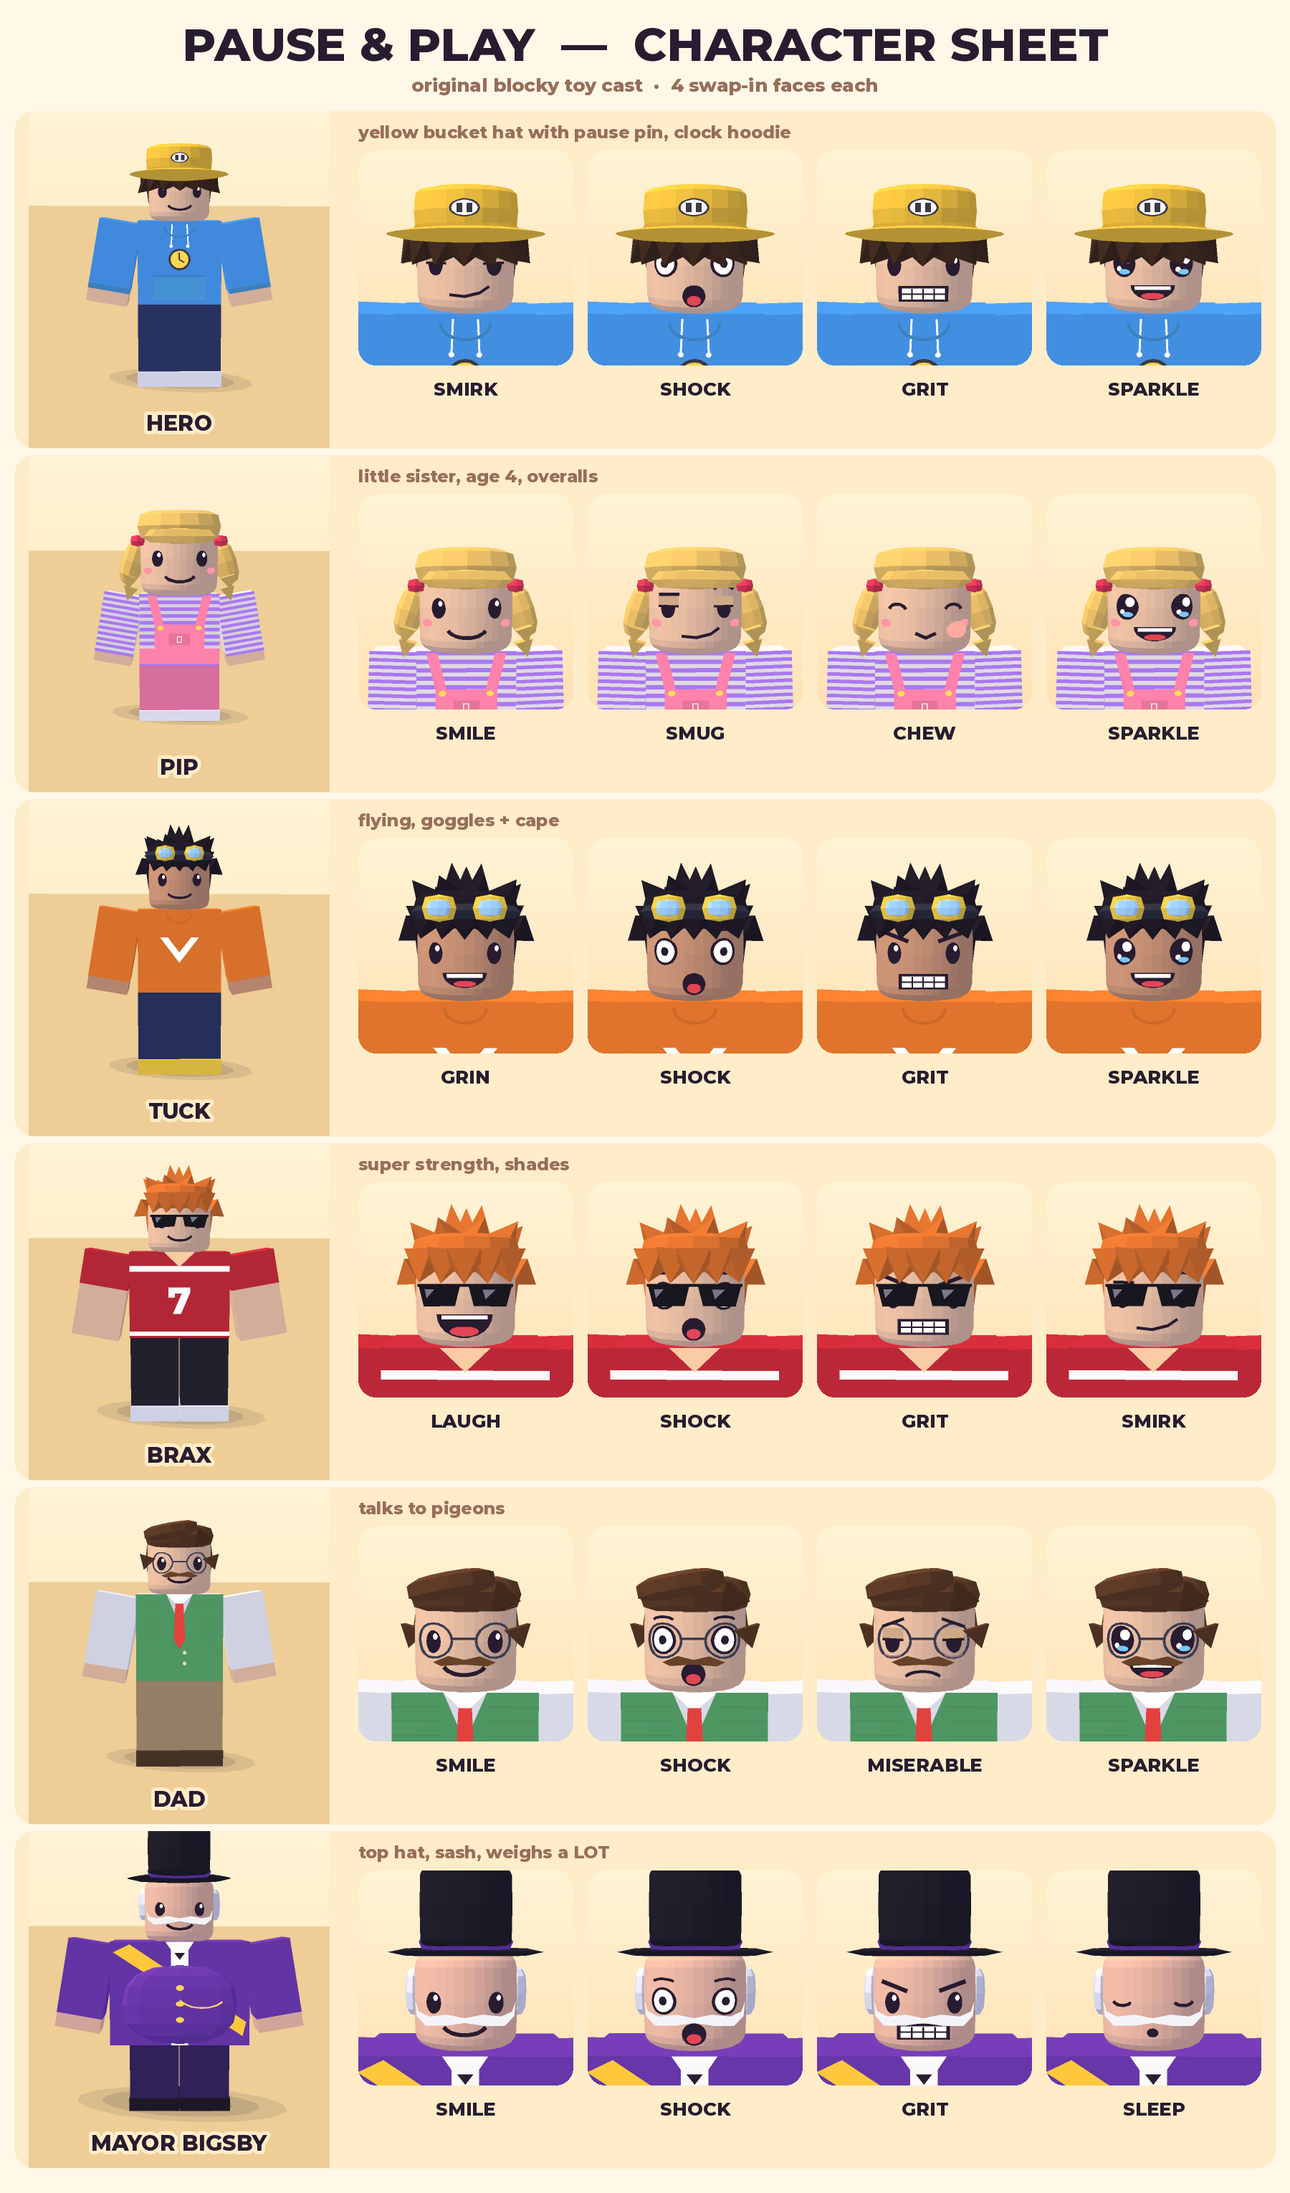
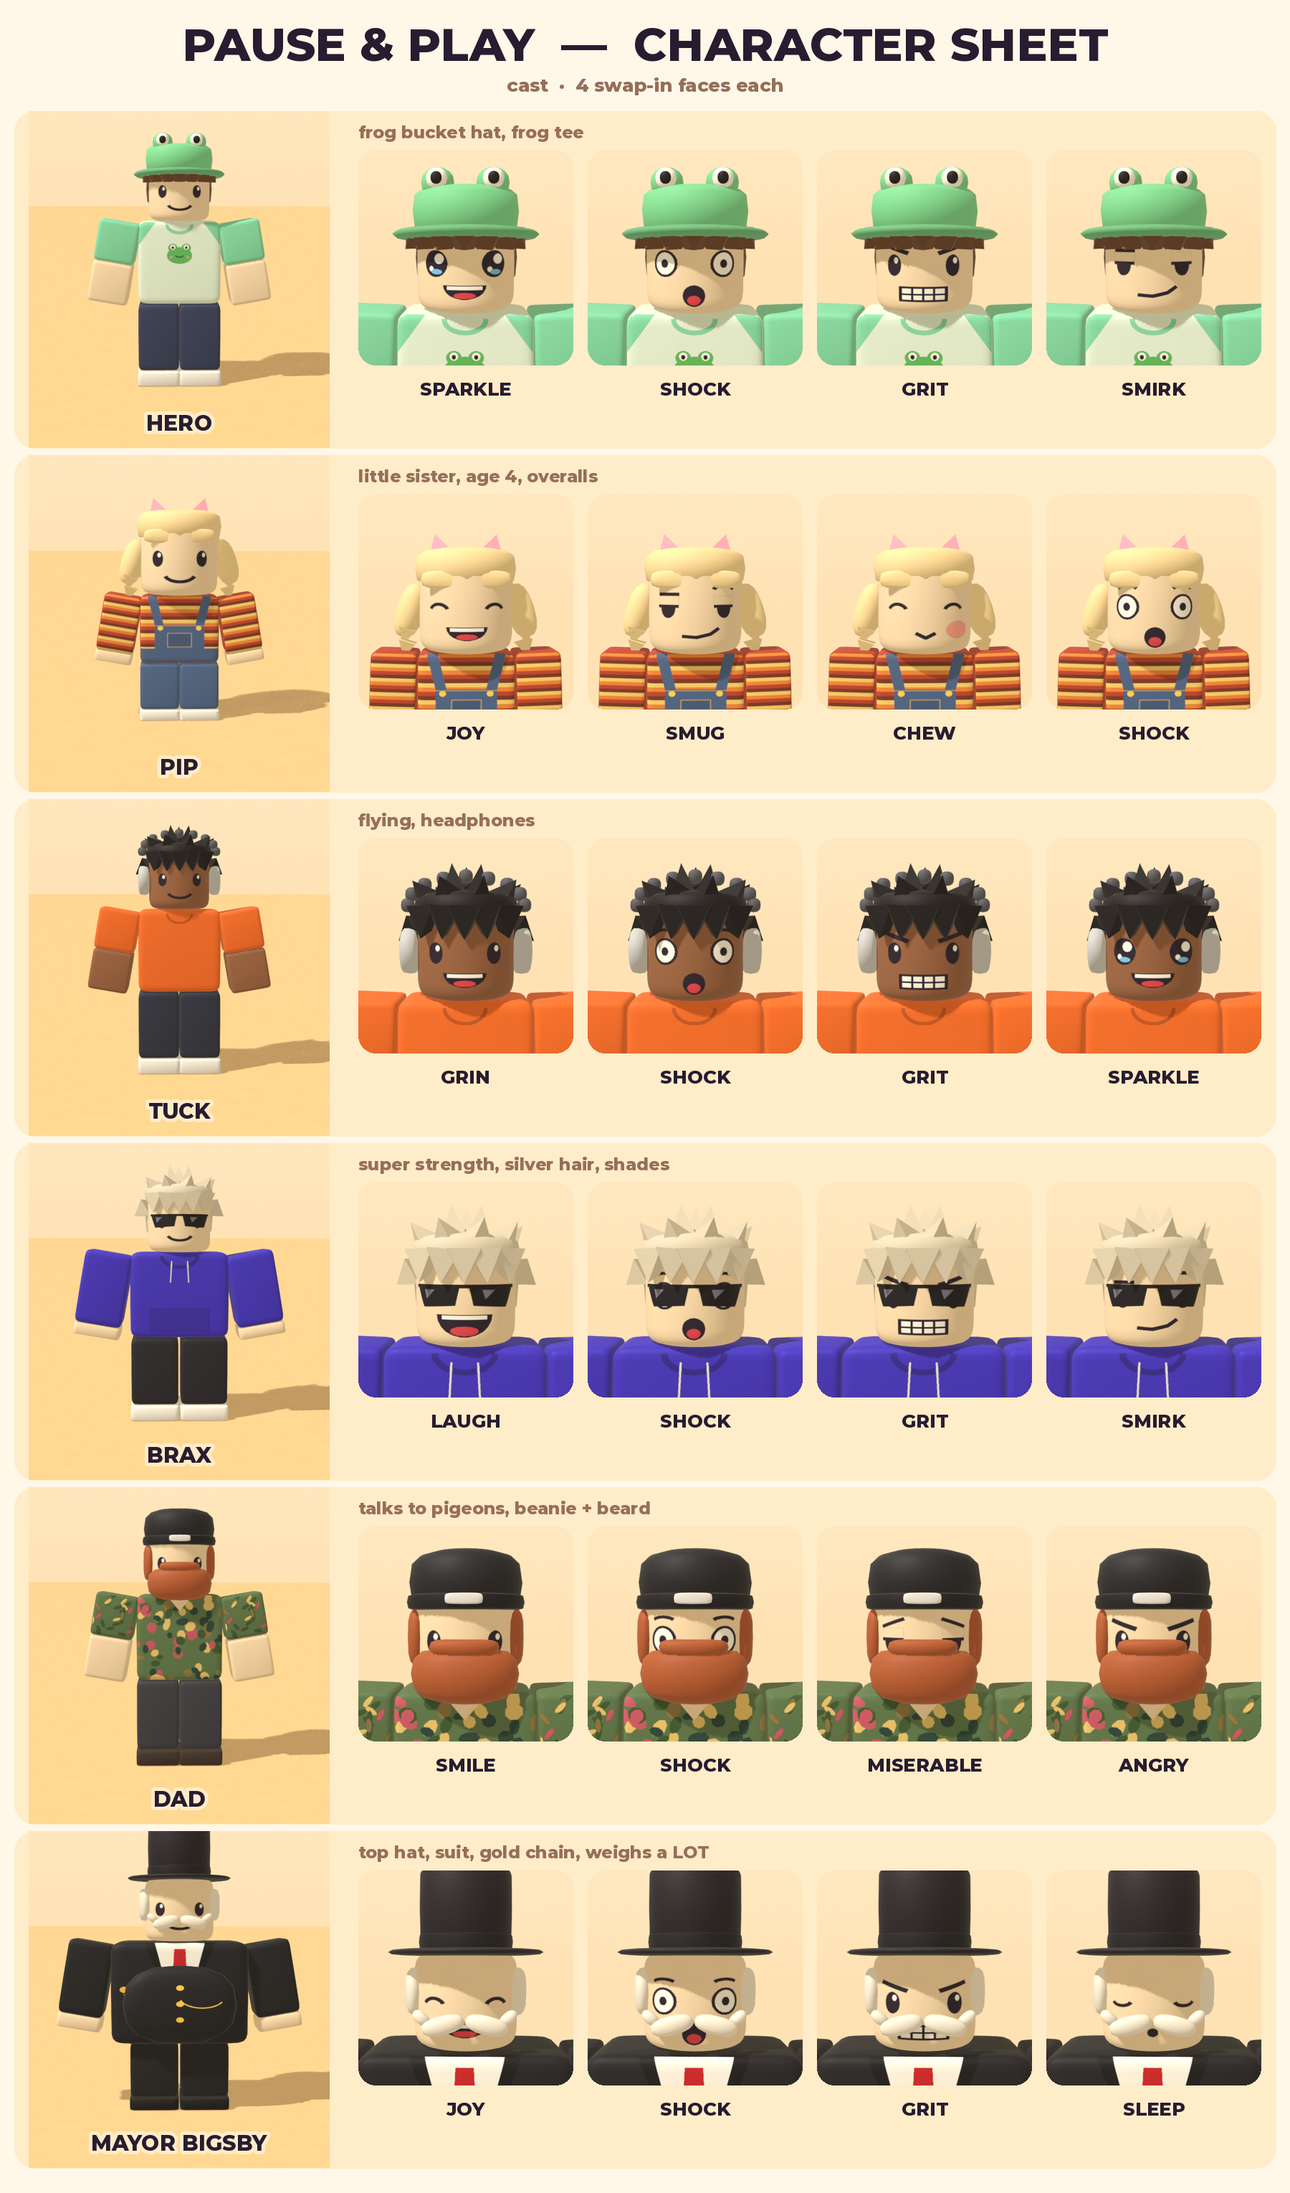
Restyle cast after the reference characters; render sheet in Blender
Frog bucket hat hero, pigtailed Pip in striped shirt and overalls,
Tuck with headphones, silver-haired Brax with shades, bearded Dad in a
beanie, Mayor Bigsby in top hat and suit. sheet_bl.py renders the
character sheet with the Blender backend.

Claude-Session: https://claude.ai/code/session_017PMdT4qytF3q9ripWgwiNd

diff --git a/pause_and_play/cast.py b/pause_and_play/cast.py
@@ -32,6 +32,7 @@ EXPR = {
     "chew0": ("happy", "happy", None, "chew0"),
     "chew1": ("happy", "happy", None, "chew1"),
     "worried": ("dot", "dot", "sad", "wobble"),
+    "joy": ("happy", "happy", None, "grin"),
     "fade": ("dot", "dot", "sad", "flat"),
 }
 
@@ -143,9 +144,9 @@ def face_decal(expr, spec, extra=None):
             D.line([(-0.82, 0.2), (0.82, 0.2)], (24, 22, 30), 0.07)
             D.poly([(-0.6, 0.14), (-0.42, 0.14), (-0.56, -0.02)], (120, 120, 140))
             D.poly([(0.24, 0.14), (0.42, 0.14), (0.28, -0.02)], (120, 120, 140))
-        if spec.get("stache"):
+        if spec.get("stache") and not spec.get("stache_big"):
             c = spec["stache"]
-            if spec.get("stache_big"):
+            if False:
                 D.poly([(0, -0.26), (-0.22, -0.2), (-0.5, -0.26), (-0.74, -0.2), (-0.86, -0.04), (-0.8, -0.3),
                         (-0.56, -0.44), (-0.24, -0.4), (0, -0.34), (0.24, -0.4), (0.56, -0.44), (0.8, -0.3),
                         (0.86, -0.04), (0.74, -0.2), (0.5, -0.26), (0.22, -0.2)], c)
@@ -177,25 +178,28 @@ def _spec(**kw):
     return base
 
 
-HERO = _spec(name="Hero", style="bucket", shirt=(76, 162, 236), pants=(48, 60, 104), shoes=(244, 244, 244),
-             hair=(66, 44, 32), hat=(255, 204, 64), accent=(255, 214, 80), hoodie=True)
+HERO = _spec(name="Hero", style="frog", skin=(246, 224, 192), shirt=(226, 246, 234), arm_shirt=(132, 222, 182),
+             pants=(52, 62, 96), shoes=(240, 240, 240), hair=(108, 72, 46), hat=(126, 218, 160), frogtee=True,
+             sleeve=0.5)
 PIP = _spec(name="Pip", style="pigtails", s=0.6, head=(0.98, 0.92, 0.98), torso=(1.0, 0.86, 0.52), arm=(0.48, 0.86),
-            leg=(0.5, 0.72), shirt=(255, 246, 236), stripe=(170, 120, 240), pants=(255, 130, 170),
-            shoes=(255, 255, 255), hair=(250, 204, 104), blush=True, accent=(240, 60, 90), overalls=(255, 130, 170))
-TUCK = _spec(name="Tuck", style="spiky", s=0.98, shirt=(255, 132, 46), pants=(46, 56, 96), shoes=(255, 214, 70),
-             hair=(36, 30, 40), skin=(214, 156, 118), accent=(255, 214, 70), cape=(255, 214, 70), goggles=True)
-BRAX = _spec(name="Brax", style="spiky", s=1.14, torso=(1.16, 1.0, 0.56), arm=(0.56, 1.0), leg=(0.56, 0.98),
-             shirt=(212, 46, 58), pants=(40, 40, 50), shoes=(245, 245, 245), hair=(232, 120, 48),
-             skin=(250, 204, 164), accent=(250, 250, 250), shades=True, jersey=True, sleeve=0.4)
-DAD = _spec(name="Dad", style="side", s=1.3, shirt=(246, 246, 240), vest=(78, 150, 98), pants=(176, 150, 110),
-            shoes=(84, 58, 42), hair=(104, 66, 40), glasses=True, stache=(104, 66, 40), tie=(226, 66, 62))
+            leg=(0.5, 0.72), skin=(246, 224, 192), shirt=(190, 70, 44),
+            stripes=[(190, 70, 44), (236, 140, 60), (248, 212, 120), (120, 56, 40)], pants=(78, 104, 150),
+            shoes=(240, 240, 240), hair=(250, 226, 172), accent=(255, 170, 196), overalls=(78, 104, 150))
+TUCK = _spec(name="Tuck", style="messy", s=0.98, skin=(150, 100, 70), shirt=(240, 112, 40), pants=(46, 50, 70),
+             shoes=(240, 240, 240), hair=(26, 22, 28), headphones=True, sleeve=0.5)
+BRAX = _spec(name="Brax", style="silver", s=1.14, torso=(1.16, 1.0, 0.56), arm=(0.56, 1.0), leg=(0.56, 0.98),
+             skin=(246, 224, 192), shirt=(66, 50, 206), pants=(36, 36, 46), shoes=(245, 245, 245),
+             hair=(222, 214, 196), shades=True, hoodie2=True, sleeve=0.86)
+DAD = _spec(name="Dad", style="beanie", s=1.3, skin=(246, 224, 192), shirt=(92, 120, 80), pants=(58, 60, 72),
+            shoes=(60, 46, 40), hair=(176, 92, 52), beard=(176, 92, 52), floral=True, sleeve=0.5,
+            hat=(36, 36, 44))
 MAYOR = _spec(name="Mayor Bigsby", style="tophat", s=1.28, head=(0.8, 0.72, 0.8), torso=(1.56, 1.16, 0.86),
-              arm=(0.52, 1.02), leg=(0.56, 0.78), shirt=(118, 62, 176), pants=(58, 40, 96), shoes=(34, 30, 40),
-              hair=(236, 236, 240), skin=(248, 194, 164), stache=(244, 244, 248), stache_big=True,
-              sash=(255, 200, 60), belly=True)
+              arm=(0.52, 1.02), leg=(0.56, 0.78), shirt=(30, 30, 36), pants=(30, 30, 36), shoes=(20, 20, 24),
+              hair=(240, 236, 228), skin=(246, 224, 192), stache=(244, 240, 232), stache_big=True, suit=True,
+              belly=True)
 BABY = _spec(name="Baby", style="curl", s=0.42, head=(1.1, 1.0, 1.1), torso=(1.0, 0.82, 0.62), arm=(0.46, 0.7),
-             leg=(0.5, 0.52), shirt=(255, 255, 255), pants=(255, 255, 255), shoes=(250, 204, 164), sleeve=0.3,
-             blush=True, hair=(110, 70, 44))
+             leg=(0.5, 0.52), shirt=(255, 255, 255), pants=(255, 255, 255), shoes=(246, 224, 192), sleeve=0.3,
+             blush=True, hair=(110, 70, 44), skin=(246, 224, 192))
 NURSE = _spec(name="Nurse", style="nurse", s=1.28, shirt=(70, 196, 182), pants=(70, 196, 182), shoes=(255, 255, 255),
               hair=(66, 42, 34), skin=(214, 156, 118), sleeve=0.45)
 
@@ -216,7 +220,39 @@ def _torso_decal(spec):
     st = spec["style"]
 
     def decal(D):
-        if spec.get("hoodie"):
+        if spec.get("frogtee"):
+            D.arc(0, 0.92, 0.3, 0.2, 180, 360, spec["arm_shirt"], 0.07)
+            for sx in (-1, 1):
+                D.poly([(sx * 1, 1), (sx * 0.56, 1), (sx * 1, 0.4)], spec["arm_shirt"])
+            D.ell(-0.16, 0.36, 0.11, 0.1, (96, 190, 100), n=14)
+            D.ell(0.16, 0.36, 0.11, 0.1, (96, 190, 100), n=14)
+            D.ell(0, 0.18, 0.3, 0.2, (96, 190, 100), n=20)
+            for sx in (-1, 1):
+                D.ell(sx * 0.16, 0.38, 0.06, 0.06, (255, 255, 255), n=10)
+                D.ell(sx * 0.16, 0.37, 0.03, 0.035, (30, 30, 30), n=8)
+                D.ell(sx * 0.2, 0.14, 0.035, 0.025, (255, 150, 160), n=8)
+            D.arc(0, 0.2, 0.1, 0.06, 200, 340, (30, 60, 30), 0.03)
+        elif spec.get("floral"):
+            rnd = np.random.RandomState(7)
+            D.rect(-1, -1, 1, 1, spec["shirt"])
+            for _ in range(70):
+                u, v = rnd.uniform(-1, 1, 2)
+                c = [(60, 90, 50), (140, 120, 70), (200, 90, 110), (230, 200, 120), (40, 70, 60)][rnd.randint(5)]
+                D.ell(u, v, rnd.uniform(0.06, 0.16), rnd.uniform(0.05, 0.12), c, n=8, rot=rnd.uniform(0, 180))
+            D.poly([(-0.32, 1), (0, 0.62), (0.32, 1)], spec["skin"])
+        elif spec.get("suit"):
+            D.poly([(-0.36, 1), (0.36, 1), (0.12, -0.2), (-0.12, -0.2)], (250, 250, 250))
+            D.poly([(-0.08, 0.86), (0.08, 0.86), (0.11, 0.0), (0, -0.16), (-0.11, 0.0)], (200, 30, 40))
+            for sx in (-1, 1):
+                D.poly([(sx * 0.36, 1), (sx * 0.12, -0.2), (sx * 0.3, 0.3), (sx * 0.5, 1)], (16, 16, 20))
+            D.arc(-0.42, 0.1, 0.4, 0.3, 200, 340, (240, 196, 60), 0.035)
+            D.ell(-0.8, 0.08, 0.06, 0.06, (240, 196, 60), n=10)
+        elif spec.get("hoodie2"):
+            D.arc(0, 0.92, 0.36, 0.26, 180, 360, tuple(v * 0.75 for v in spec["shirt"]), 0.08)
+            D.rect(-0.6, -0.85, 0.6, -0.3, tuple(v * 0.88 for v in spec["shirt"]))
+            for sx in (-1, 1):
+                D.line([(sx * 0.16, 0.8), (sx * 0.18, 0.3)], (230, 230, 240), 0.03)
+        elif spec.get("hoodie"):
             D.rect(-0.62, -0.9, 0.62, -0.32, tuple(v * 0.9 for v in spec["shirt"]))
             D.line([(-0.62, -0.32), (0.62, -0.32)], tuple(v * 0.75 for v in spec["shirt"]), 0.03)
             for sx in (-1, 1):
@@ -228,16 +264,18 @@ def _torso_decal(spec):
             D.line([(0.0, 0.08), (0.11, 0.02)], (60, 56, 70), 0.04)
             D.arc(0, 0.86, 0.36, 0.24, 180, 360, tuple(v * 0.8 for v in spec["shirt"]), 0.05)
         elif spec.get("overalls"):
-            for k in range(-5, 6):
-                D.rect(-1, k * 0.2 - 0.05, 1, k * 0.2 + 0.05, spec["stripe"])
+            st_ = spec["stripes"]
+            for k in range(-10, 10):
+                D.rect(-1, k * 0.1, 1, k * 0.1 + 0.1, st_[k % len(st_)])
             o = spec["overalls"]
             D.rect(-0.62, -1, 0.62, 0.15, o)
             D.rect(-1, -1, 1, -0.55, o)
             for sx in (-1, 1):
                 D.poly([(sx * 0.62, 0.15), (sx * 0.4, 0.15), (sx * 0.58, 1), (sx * 0.8, 1)], o)
                 D.ell(sx * 0.48, 0.05, 0.07, 0.07, (255, 220, 90), n=10)
-            D.rect(-0.26, -0.45, 0.26, -0.12, tuple(v * 0.9 for v in o))
-            D.text(0, -0.28, "♥", (255, 255, 255), h=0.14)
+            D.rect(-0.3, -0.5, 0.3, -0.1, tuple(v * 0.9 for v in o))
+            D.line([(-0.3, -0.1), (0.3, -0.1), (0.3, -0.5), (-0.3, -0.5), (-0.3, -0.1)], (200, 170, 110), 0.02)
+            D.line([(-0.62, 0.12), (0.62, 0.12)], (200, 170, 110), 0.02)
         elif spec.get("jersey"):
             D.rect(-1, 0.55, 1, 0.68, spec["accent"])
             D.rect(-1, -0.95, 1, -0.85, spec["accent"])
@@ -281,8 +319,17 @@ def _torso_decal(spec):
 def _arm_decal(spec):
     if spec.get("overalls"):
         def decal(D):
-            for k in range(-5, 6):
-                D.rect(-1, k * 0.2 - 0.05, 1, k * 0.2 + 0.05, spec["stripe"])
+            st_ = spec["stripes"]
+            for k in range(-10, 10):
+                D.rect(-1, k * 0.1, 1, k * 0.1 + 0.1, st_[k % len(st_)])
+        return decal
+    if spec.get("floral"):
+        def decal(D):
+            rnd = np.random.RandomState(3)
+            for _ in range(25):
+                u, v = rnd.uniform(-1, 1, 2)
+                c = [(60, 90, 50), (140, 120, 70), (200, 90, 110), (230, 200, 120)][rnd.randint(4)]
+                D.ell(u, v, 0.2, 0.08, c, n=8, rot=rnd.uniform(0, 180))
         return decal
     if spec.get("hoodie"):
         return lambda D: D.rect(-1, -1, 1, -0.86, tuple(v * 0.8 for v in spec["shirt"]))
@@ -356,6 +403,7 @@ def character(sc, spec, pos=(0, 0, 0), yaw=0, face="smile", pose=None, live=Fals
         J = body @ T(sx * (tw / 2 + aw / 2), ll + th - aw / 2, 0) @ RZ(sx * roll) @ RX(-pitch)
         top = aw / 2
         sl = al * spec["sleeve"]
+        shirt = spec.get("arm_shirt", spec["shirt"])
         bend = p.get(ek, 0)
         if abs(bend) < 1:
             B(J @ T(0, top - sl / 2, 0), (aw, sl, aw), shirt, decal=adec)
@@ -428,6 +476,56 @@ def _hair(sc, spec, Mh, hw, hh, hd, s, layer, live):
             u = -spread + 2 * spread * i / max(1, n - 1)
             spike(u * 0.9, y, math.cos(u * 0.9) * 0.92, u * 0.25, -0.9, 0.4, length, 0.22, c, bias=-0.05)
 
+    if spec.get("beard"):
+        bc = spec["beard"]
+        blob(T(0, -hh * 0.32, rz * 0.62), (hw * 1.0, hh * 0.56, hd * 0.62), bc, e=0.7, bias=-0.2, n=16, m=8)
+        blob(T(0, -hh * 0.05, rz * 0.9), (hw * 0.62, hh * 0.16, 0.2 * s), bc, e=0.6, bias=-0.3, n=12, m=6)
+        for sx in (-1, 1):
+            blob(T(sx * rx * 0.92, hh * 0.02, 0.0), (0.16 * s, hh * 0.6, hd * 0.6), bc, e=0.6, bias=-0.1, n=10, m=6)
+    if spec.get("headphones"):
+        grey = (200, 204, 212)
+        for sx in (-1, 1):
+            blob(T(sx * (rx + 0.06 * s), 0.0, 0.0) @ RZ(90), (0.36 * s, 0.14 * s, 0.36 * s), grey, e=0.5, bias=-0.2,
+                 n=14, m=4)
+        for k in range(9):
+            a = math.pi * k / 8
+            blob(T(math.cos(a) * (rx + 0.08 * s), hh * 0.5 + math.sin(a) * 0.22 * s, -0.02 * s),
+                 (0.11 * s, 0.11 * s, 0.11 * s), (90, 92, 104), e=0.8, bias=-0.4, n=8, m=4)
+    if spec.get("stache_big"):
+        wc = spec["stache"]
+        for sx in (-1, 1):
+            blob(T(sx * 0.15 * s, -hh * 0.2, rz + 0.04 * s) @ RZ(sx * -14), (0.3 * s, 0.13 * s, 0.12 * s), wc, e=0.8,
+                 bias=-0.5, n=12, m=6)
+            blob(T(sx * 0.3 * s, -hh * 0.14, rz + 0.0 * s) @ RZ(sx * 40), (0.14 * s, 0.08 * s, 0.1 * s), wc, e=0.8,
+                 bias=-0.5, n=10, m=5)
+    if st in ("messy", "silver"):
+        st = "spiky"
+    if st == "frog":
+        back(0.62, 0.05)
+        for i in range(7):
+            a = -1.2 + i * 0.4
+            spike(math.sin(a) * 1.0, 0.55, math.cos(a) * 1.0, math.sin(a) * 0.7, -0.6, math.cos(a) * 0.7, 0.13, 0.2,
+                  bias=-0.05)
+        hat = spec["hat"]
+        dk = tuple(v * 0.85 for v in hat)
+        blob(T(0, hh * 0.56, -0.01 * s), (hw * 1.1, hh * 0.52, hd * 1.1), hat, e=0.45, bias=-0.35, n=24, m=8)
+        blob(T(0, hh * 0.3, 0.01 * s) @ RX(-4), (hw * 1.5, 0.1 * s, hd * 1.5), dk, e=0.7, bias=-0.45, n=24, m=5)
+        for sx in (-1, 1):
+            ex, ey, ez = sx * 0.2 * s, hh * 0.84, 0.16 * s
+            blob(T(ex, ey, ez), (0.24 * s, 0.22 * s, 0.22 * s), hat, e=0.9, bias=-0.6, n=12, m=8)
+            blob(T(ex, ey + 0.02 * s, ez + 0.08 * s), (0.15 * s, 0.15 * s, 0.1 * s), (255, 255, 255), e=0.9,
+                 bias=-0.7, n=10, m=6)
+            blob(T(ex, ey + 0.02 * s, ez + 0.12 * s), (0.08 * s, 0.09 * s, 0.05 * s), (24, 24, 28), e=0.9,
+                 bias=-0.8, n=8, m=6)
+        return 0.62
+    if st == "beanie":
+        hat = spec["hat"]
+        blob(T(0, hh * 0.58, -0.02 * s), (hw * 1.12, hh * 0.66, hd * 1.12), hat, e=0.6, bias=-0.35, n=24, m=8)
+        blob(T(0, hh * 0.38, 0), (hw * 1.16, hh * 0.17, hd * 1.16), tuple(v * 0.8 for v in hat), e=0.3, bias=-0.4,
+             n=24, m=4)
+        blob(T(0, hh * 0.4, rz + 0.06 * s), (0.24 * s, 0.07 * s, 0.03 * s), (235, 235, 240), e=0.4, bias=-0.6,
+             n=8, m=4)
+        return 0.4
     if st == "bucket":
         back(0.62, 0.05)
         for i in range(7):
@@ -478,8 +576,8 @@ def _hair(sc, spec, Mh, hw, hh, hd, s, layer, live):
                  e=0.8, bias=0.0, n=10, m=6)
             for k in range(2):
                 spike(sx * 1.25, -0.5 - k * 0.3, 0.0, sx * 0.3, -1, 0.0, 0.18, 0.18, bias=-0.01)
-            blob(T(sx * (rx + 0.04 * s), hh * 0.24, -0.02 * s), (0.18 * s, 0.14 * s, 0.22 * s), spec["accent"],
-                 e=0.6, bias=-0.25, n=8, m=4)
+            _spike(sc, Mh, (sx * rx * 0.55, hh * 0.62, 0.0), (sx * 0.3, 1.0, 0.0), 0.2 * s, 0.22 * s,
+                   spec["accent"], layer, live)
         return 0.28
     if st == "side":
         back(0.6, 0.1)

diff --git a/pause_and_play/sheet.py b/pause_and_play/sheet.py
@@ -8,12 +8,12 @@ from cast import BRAX, DAD, HERO, MAYOR, PIP, TUCK, character
 from engine import Scene, font
 
 ROWS = [
-    (HERO, ["smirk", "shock", "grit", "sparkle"], "HERO", "yellow bucket hat with pause pin, clock hoodie"),
-    (PIP, ["smile", "smug", "chew0", "sparkle"], "PIP", "little sister, age 4, overalls"),
-    (TUCK, ["grin", "shock", "grit", "sparkle"], "TUCK", "flying, goggles + cape"),
-    (BRAX, ["laugh", "shock", "grit", "smirk"], "BRAX", "super strength, shades"),
-    (DAD, ["smile", "shock", "miserable", "sparkle"], "DAD", "talks to pigeons"),
-    (MAYOR, ["smile", "shock", "grit", "sleep"], "MAYOR BIGSBY", "top hat, sash, weighs a LOT"),
+    (HERO, ["sparkle", "shock", "grit", "smirk"], "HERO", "frog bucket hat, frog tee"),
+    (PIP, ["joy", "smug", "chew0", "shock"], "PIP", "little sister, age 4, overalls"),
+    (TUCK, ["grin", "shock", "grit", "sparkle"], "TUCK", "flying, headphones"),
+    (BRAX, ["laugh", "shock", "grit", "smirk"], "BRAX", "super strength, silver hair, shades"),
+    (DAD, ["smile", "shock", "miserable", "angry"], "DAD", "talks to pigeons, beanie + beard"),
+    (MAYOR, ["joy", "shock", "grit", "sleep"], "MAYOR BIGSBY", "top hat, suit, gold chain, weighs a LOT"),
 ]
 BG = ((255, 244, 214), (255, 226, 180))
 
@@ -41,7 +41,7 @@ def main(out):
     img = Image.new("RGB", (W, top + rowh * len(ROWS) + 30), (255, 248, 232))
     d = ImageDraw.Draw(img)
     d.text((W // 2, 62), "PAUSE & PLAY  —  CHARACTER SHEET", font=font(64), fill=(40, 28, 48), anchor="mm")
-    d.text((W // 2, 118), "original blocky toy cast  ·  4 swap-in faces each", font=font(26), fill=(150, 110, 90),
+    d.text((W // 2, 118), "cast  ·  4 swap-in faces each", font=font(26), fill=(150, 110, 90),
            anchor="mm")
     for r, (spec, exprs, name, note) in enumerate(ROWS):
         y = top + r * rowh

diff --git a/pause_and_play/bl_backend.py b/pause_and_play/bl_backend.py
@@ -440,6 +440,13 @@ class BScene(engine.Scene):
 
     def _camera(self):
         W = world()
+        if (self.outW, self.outH) == (1080, 1920):
+            rx, ry = RENDER_W, RENDER_H
+        else:
+            k = min(1.5, 900 / max(self.outW, self.outH))
+            rx, ry = int(self.outW * k), int(self.outH * k)
+        if (W.scene.render.resolution_x, W.scene.render.resolution_y) != (rx, ry):
+            W.scene.render.resolution_x, W.scene.render.resolution_y = rx, ry
         R = np.eye(4)
         R[:3, 0] = C3 @ self.r
         R[:3, 1] = C3 @ self.u

diff --git a/pause_and_play/sheet_bl.py b/pause_and_play/sheet_bl.py
@@ -1,0 +1,9 @@
+"""Character sheet rendered with the Blender backend (run with the bpy Python)."""
+import os
+import sys
+
+import bl_backend  # noqa: F401  (must come before sheet / engine.Scene users)
+import sheet
+
+if __name__ == "__main__":
+    sheet.main(sys.argv[1] if len(sys.argv) > 1 else os.path.join(os.path.dirname(__file__), "out", "character_sheet.png"))
